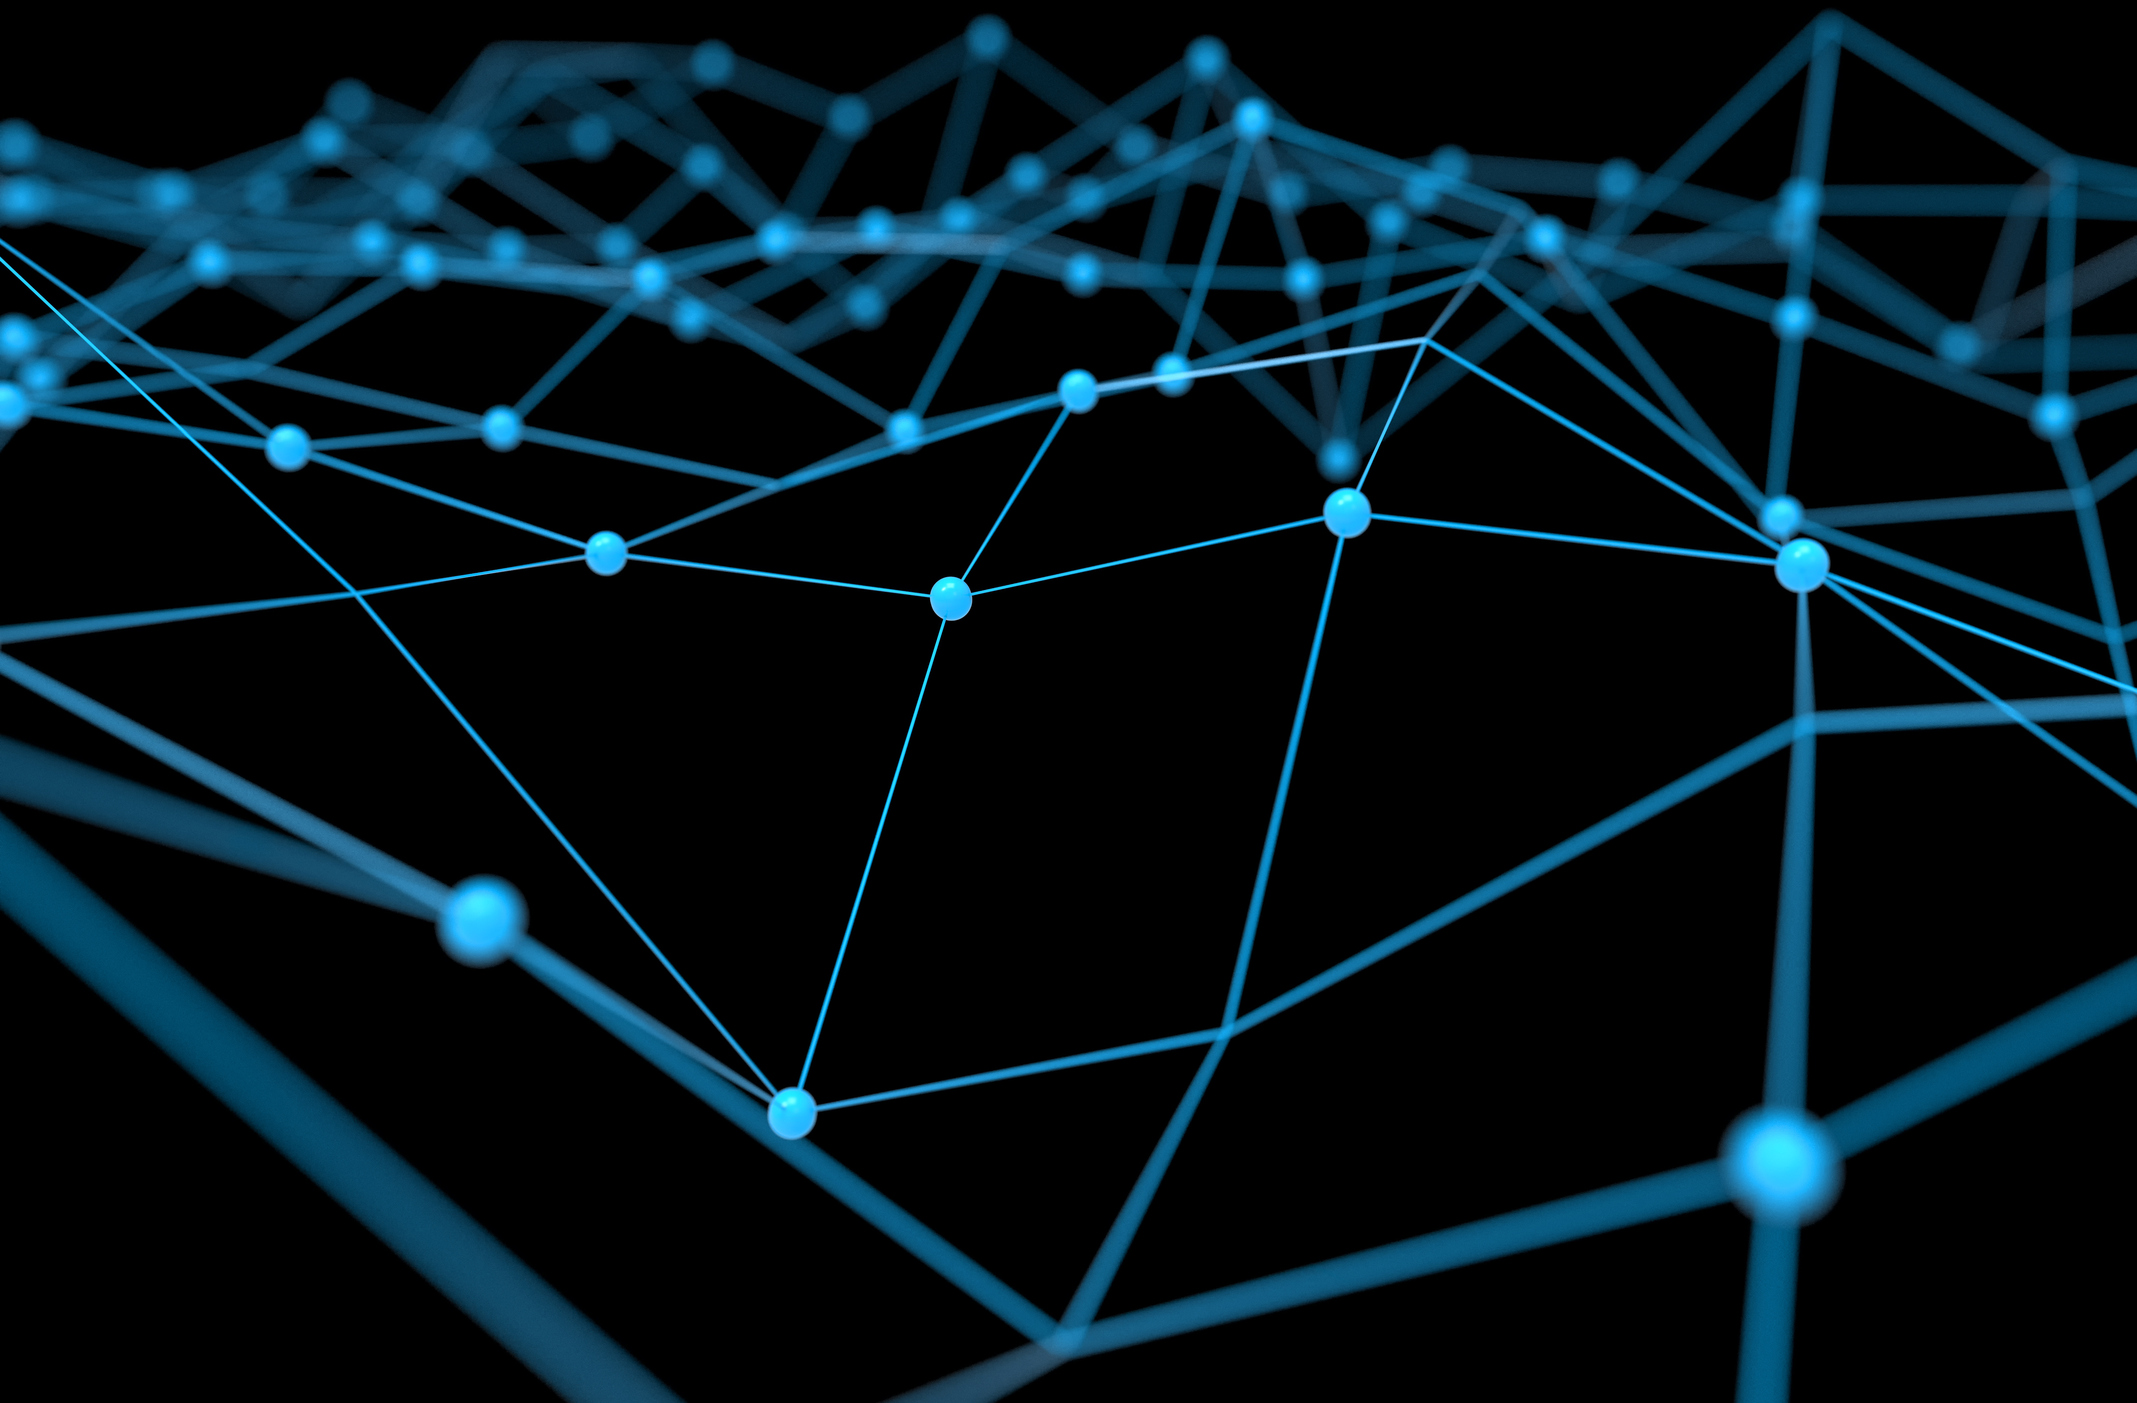
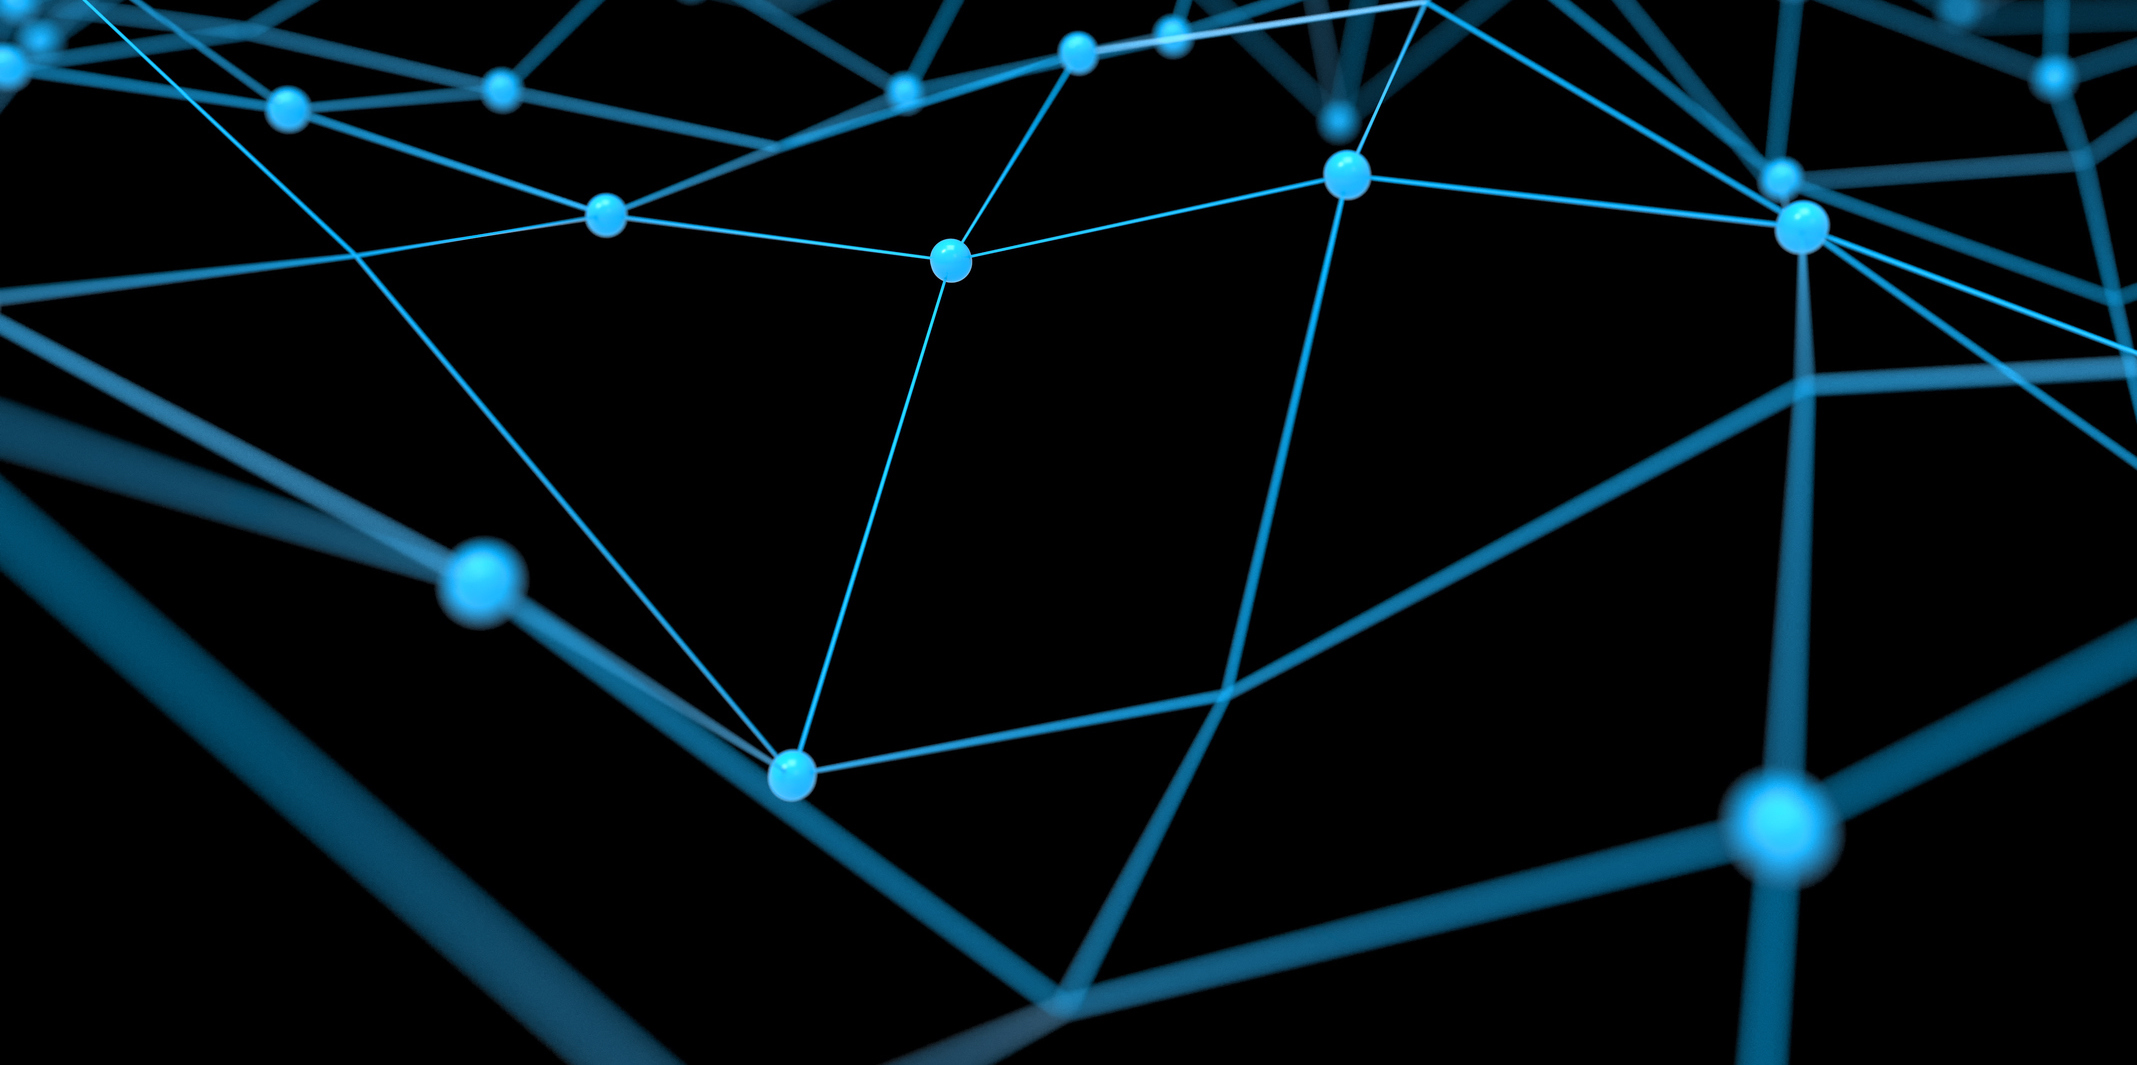
update website

diff --git a/index.html b/index.html
@@ -117,13 +117,13 @@
 <table>
   <tbody>
     <tr>
-      <td><img src="/DMLW2022/assets/images/placeholder.jpg" alt="Jian Lou" height="197" /></td>
+      <td><img src="/DMLW2022/assets/images/Jian.jpeg" alt="Jian Lou" height="197" /></td>
       <td><img src="/DMLW2022/assets/images/Zhiguang.jpeg" alt="Stephen (Zhiguang) Wang" height="197" /></td>
       <td><img src="/DMLW2022/assets/images/bo_li.jpg" alt="Bo Li" height="197"/></td>
       <td><img src="/DMLW2022/assets/images/dawn.png" alt="Dawn Song" height="197"/></td>
     </tr>
     <tr>
-      <td width="300" ><a href="/DMLW2022/">Jian Lou</a><br />Founding Partner, <br>DeUniv DAO</td>
+      <td width="300" ><a href="https://www.linkedin.com/in/jian-lou-35746b91/">Jian Lou</a><br />Founding Partner, <br>DeUniv DAO</td>
       <td width="300" ><a href="https://www.zgwang.org">Stephen (Zhiguang) Wang</a><br />America CTO, <br>Amber Group</td>
       <td width="300" ><a href="https://aisecure.github.io/">Bo Li</a><br />Assistant Professor, <br>University of Illinois at Urbana-Champaign</td>
       <td width="300" ><a href="https://people.eecs.berkeley.edu/~dawnsong/">Dawn Song</a><br />Professor, <br>UC Berkeley</td>

diff --git a/assets/css/style.css b/assets/css/style.css
@@ -858,7 +858,7 @@ a {
   color: white;
   text-align: center;
   background-color: #000;
-  background-image: url("../images/blockchain.png");
+  background-image: url("../images/blockchain_dark.jpg");
   background-repeat: no-repeat;
   background-size: cover;
   background-position: center; }
